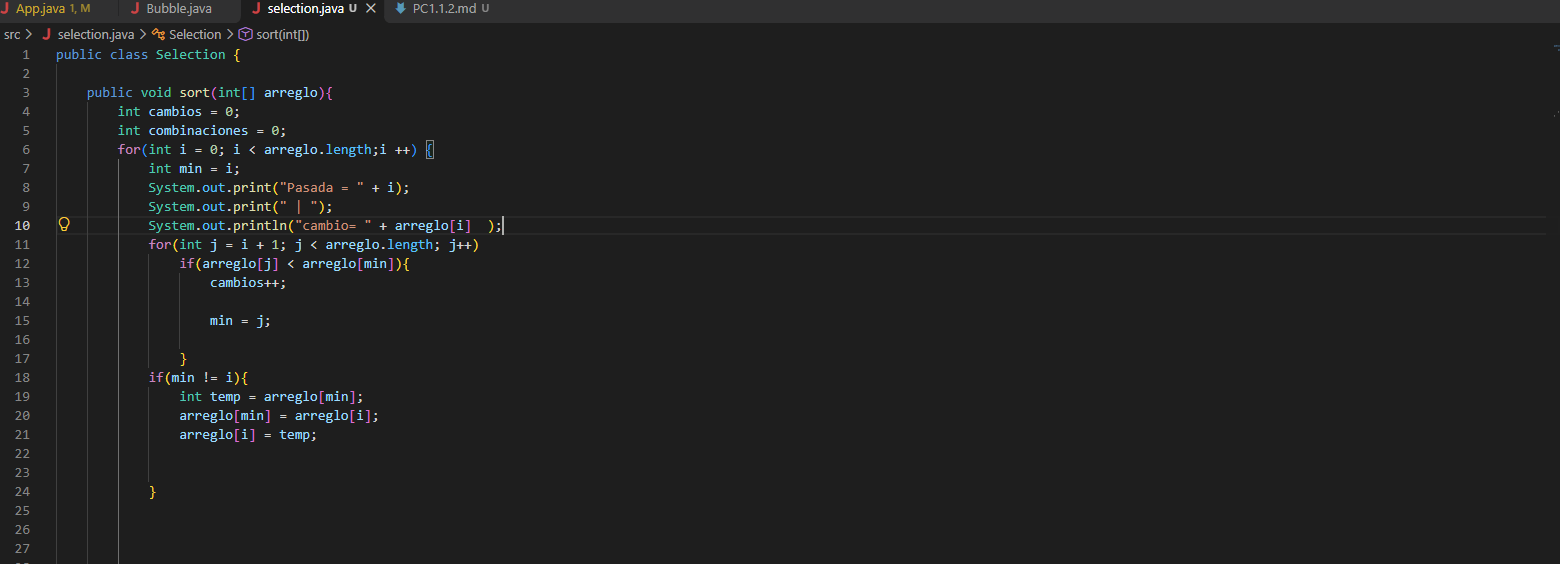
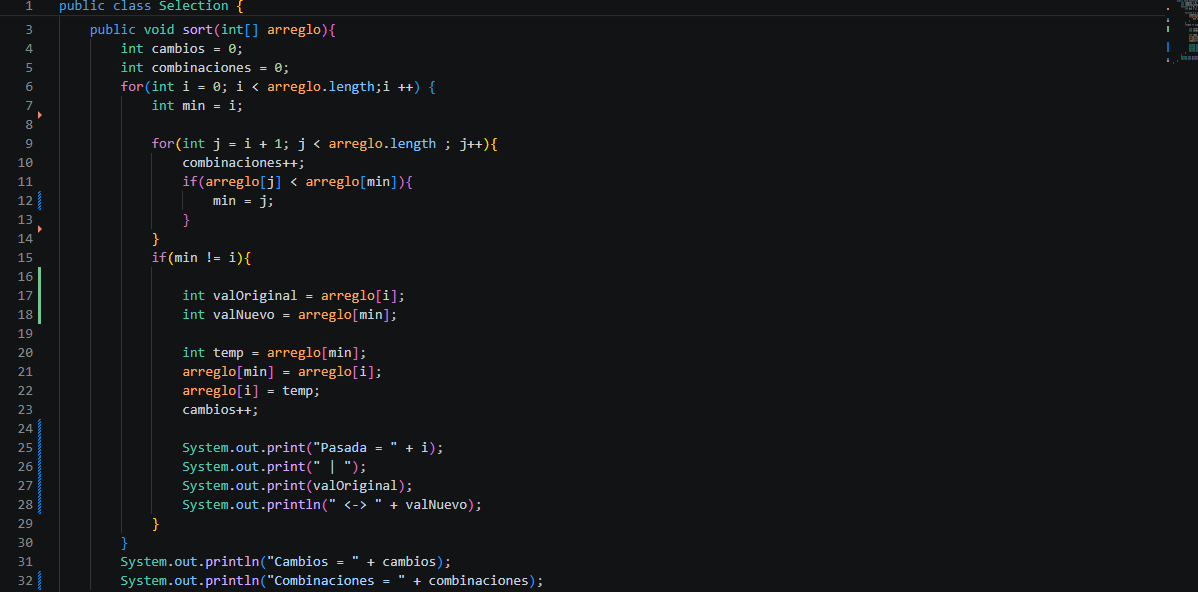
Ordemamiento

diff --git a/src/Selection.java b/src/Selection.java
@@ -5,9 +5,7 @@ public class Selection {
         int combinaciones = 0;
         for(int i = 0; i < arreglo.length;i ++) {
             int min = i;
-            System.out.print("Pasada = " + i );
-            System.out.print(" | ");
-            System.out.println("cambio = " + arreglo[i]  );
+            
             
             for(int j = i + 1; j < arreglo.length ; j++){
                 combinaciones++;
@@ -19,11 +17,21 @@ public class Selection {
 
             }
             if(min != i){
+
+                int valOriginal = arreglo[i];
+                int valNuevo = arreglo[min];
                 
                 int temp = arreglo[min];
                 arreglo[min] = arreglo[i];
                 arreglo[i] = temp;
                 cambios++;
+
+                System.out.print("Pasada = " + i);
+                System.out.print(" | ");
+                System.out.print(valOriginal);
+                System.out.println(" <-> " + valNuevo);
+                
+                
                 
             }           
         }

diff --git a/evidencias/assets/PC1.1.2.md b/evidencias/assets/PC1.1.2.md
@@ -1,14 +1,16 @@
 
 # PC 1.1.2
+![alt text](../capturas/3.png)
+
+## EXPLICACIONES 
+Para que se muestre los resultados, lo primero que hice fue crea dos variables que contengan los cambios y las combinaciones que se hicieron, tambien creé dos variables mas dentro del if que me permitian tener los datos por el cual se hacia el intercambio e imprimirlos. 
 
 
-![alt text](3.png)
 
 
-Resultado
+## RESULTADO
+![alt text](../capturas/4.png)
 
-
-![alt text](4.png)
 
 
 
